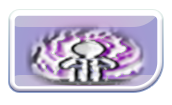
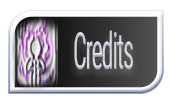
feat: A1button1 reopens welcome overlay, world-layer bg white
- Update A1button1.png and A1button2.png assets
- Header logo-btn-1 click re-shows #intro-overlay with enter button
  visible and loading bar hidden (since everything is already loaded)
- world-layer.js (04_Inner_World) scene background white instead of black

diff --git a/index.js b/index.js
@@ -283,6 +283,27 @@ document.getElementById('intro-enter-btn').addEventListener('click', () => {
 });
 
 // ───────────────────────────────────────────────
+// HEADER LOGO BUTTON 1 → re-open welcome overlay
+// ───────────────────────────────────────────────
+const logoBtn1 = document.getElementById('logo-btn-1');
+if (logoBtn1) {
+    logoBtn1.addEventListener('click', () => {
+        uiSound.click && uiSound.click();
+        const introOverlay = document.getElementById('intro-overlay');
+        const loadingWrap = document.getElementById('intro-loading-bar-wrap');
+        const enterBtn = document.getElementById('intro-enter-btn');
+        if (!introOverlay) return;
+        // Hide loading bar (already loaded), show enter button
+        if (loadingWrap) loadingWrap.style.display = 'none';
+        if (enterBtn) enterBtn.style.display = 'flex';
+        // Re-enable and fade back in
+        introOverlay.style.display = 'flex';
+        introOverlay.style.pointerEvents = 'auto';
+        gsap.fromTo(introOverlay, { opacity: 0 }, { opacity: 1, duration: 0.4 });
+    });
+}
+
+// ───────────────────────────────────────────────
 // HUD WORLD DATA & UPDATE LOGIC
 // ───────────────────────────────────────────────
 

diff --git a/index.html b/index.html
@@ -9,7 +9,7 @@
     <link rel="preconnect" href="https://fonts.googleapis.com" crossorigin>
     <link rel="preconnect" href="https://fonts.gstatic.com" crossorigin>
     <title>One More Sim</title>
-    <link rel="stylesheet" href="style.css?v=17">
+    <link rel="stylesheet" href="style.css?v=18">
     <link
         href="https://fonts.googleapis.com/css2?family=Averia+Libre:ital,wght@0,300;0,400;0,700;1,300;1,400;1,700&display=swap"
         rel="stylesheet">
@@ -387,7 +387,7 @@
         </div>
     </div>
 
-    <script type="module" src="index.js?v=15"></script>
+    <script type="module" src="index.js?v=18"></script>
 </body>
 
 </html>

diff --git a/worlds/world-layer.js b/worlds/world-layer.js
@@ -33,7 +33,7 @@ const WorldLayer = {
 
     // ── ESCENA ──
     this.scene = new THREE.Scene()
-    this.scene.background = new THREE.Color(0x000000)
+    this.scene.background = new THREE.Color(0xffffff)
 
     // ── CÁMARA ──
     // Más cerca para que la imagen ocupe casi todo el viewport
